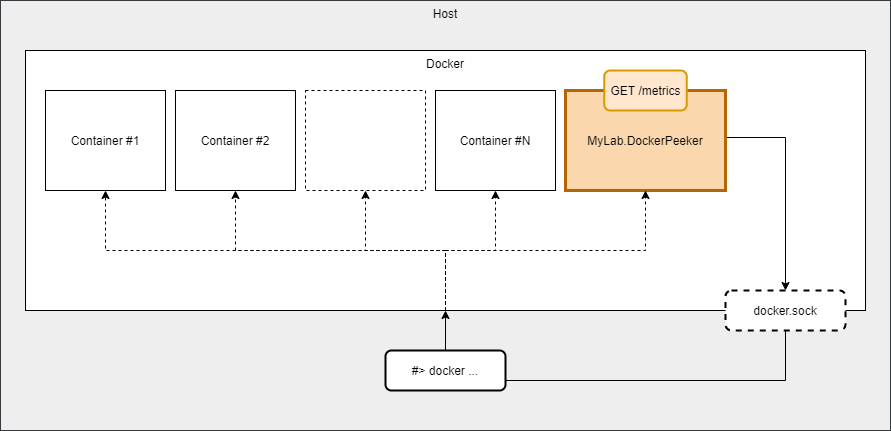
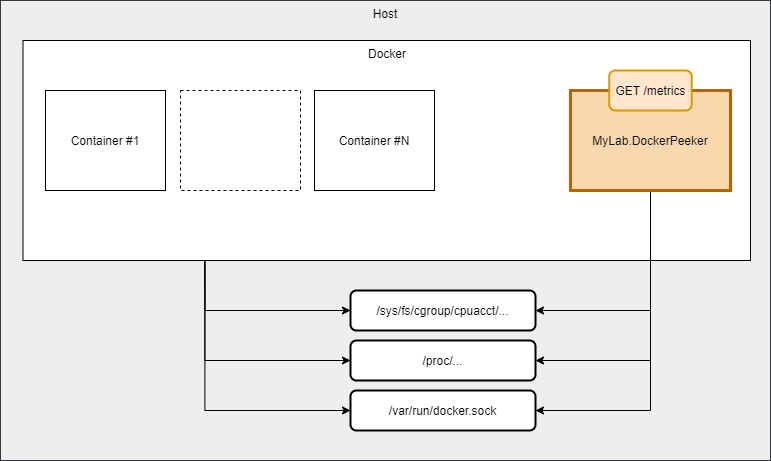
Update readme

diff --git a/README.md b/README.md
@@ -36,7 +36,11 @@ GET http://container_name:80/metrics
 
 Сервис развёртывается в docker-контейнере на хостовой машине, где необходимо собирать метрики о контейнерах.
 
-Для корректной работы, необходимо в контейнер сервиса подключить файл сокета докера хостовой машины.
+Для корректной работы, необходимо в контейнер сервиса подключить:
+
+* файл сокета докера в `/var/run/docker.sock`
+* директорию с псевдофайлами контрольных групп в `/etc/docker-peeker/cgroup`
+* директорию с псевдофайлами процессов в `/etc/docker-peeker/proc`
 
 Пример `docker-comopose` файла:
 
@@ -48,7 +52,10 @@ services:
     image: mylabtools/docker-peeker
     container_name: docker-peeker
     volumes:
-    - /var/run/docker.sock:/var/run/docker.sock
+    - /var/run/docker.sock:/var/run/docker.sock:ro
+    - /sys/fs/cgroup:/etc/docker-peeker/cgroup:ro
+    - /proc:/etc/docker-peeker/proc:ro
+
 ```
 
 ## Метрики
